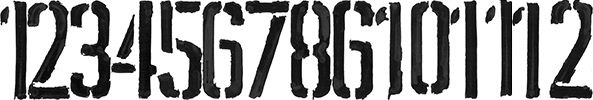
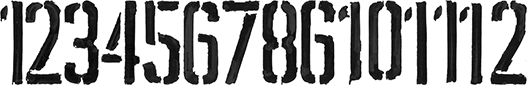
first clock fixed

diff --git a/style.css b/style.css
@@ -326,6 +326,7 @@ main section.clock-section article.desc {
     height: 40px;
     background-image: url(./test-min.png);
     background-size: cover;
+    background-repeat: no-repeat;
 }
 
 .custom .digit {
@@ -342,68 +343,68 @@ main section.clock-section article.desc {
 }
 
 .digit.digit-2 {
-    width: 16.5px;
+    width: 19px;
     background-position-x: -11px;
     transform: rotate(60deg) translate(0, -125px) rotate(-60deg);
 }
 
 .digit.digit-3 {
-    width: 16.5px;
-    background-position-x: -28px;
+    width: 18px;
+    background-position-x: -29px;
     transform: rotate(90deg) translate(0, -125px) rotate(-90deg);
 }
 
 .digit.digit-4 {
-    width: 18px;
-    background-position-x: -44.5px;
+    width: 19px;
+    background-position-x: -47px;
     transform: rotate(120deg) translate(0, -125px) rotate(-120deg);
 }
 
 .digit.digit-5 {
-    width: 17.5px;
-    background-position-x: -63px;
+    width: 20px;
+    background-position-x: -66px;
     transform: rotate(150deg) translate(0, -125px) rotate(-150deg);
 }
 
 .digit.digit-6 {
-    width: 16.5px;
-    background-position-x: -81px;
+    width: 18px;
+    background-position-x: -85px;
     transform: rotate(180deg) translate(0, -125px) rotate(-180deg);
 }
 
 .digit.digit-7 {
-    width: 17.5px;
-    background-position-x: -98px;
+    width: 19px;
+    background-position-x: -104px;
     transform: rotate(210deg) translate(0, -125px) rotate(-210deg);
 }
 
 .digit.digit-8 {
-    width: 16.5px;
-    background-position-x: -116px;
+    width: 18px;
+    background-position-x: -123px;
     transform: rotate(240deg) translate(0, -125px) rotate(-240deg);
 }
 
 .digit.digit-9 {
-    width: 17px;
-    background-position-x: -132.5px;
+    width: 18px;
+    background-position-x: -140px;
     transform: rotate(270deg) translate(0, -125px) rotate(-270deg);
 }
 
 .digit.digit-10 {
-    width: 30px;
-    background-position-x: -150px;
+    width: 32px;
+    background-position-x: -158px;
     transform: rotate(300deg) translate(0, -125px) rotate(-300deg);
 }
 
 .digit.digit-11 {
     width: 25px;
-    background-position-x: -180px;
+    background-position-x: -190px;
     transform: rotate(330deg) translate(0, -125px) rotate(-330deg);
 }
 
 .digit.digit-12 {
-    width: 32px;
-    background-position-x: -205px;
+    width: 34px;
+    background-position-x: -215px;
     transform: translate(0, -125px)
 }
 
